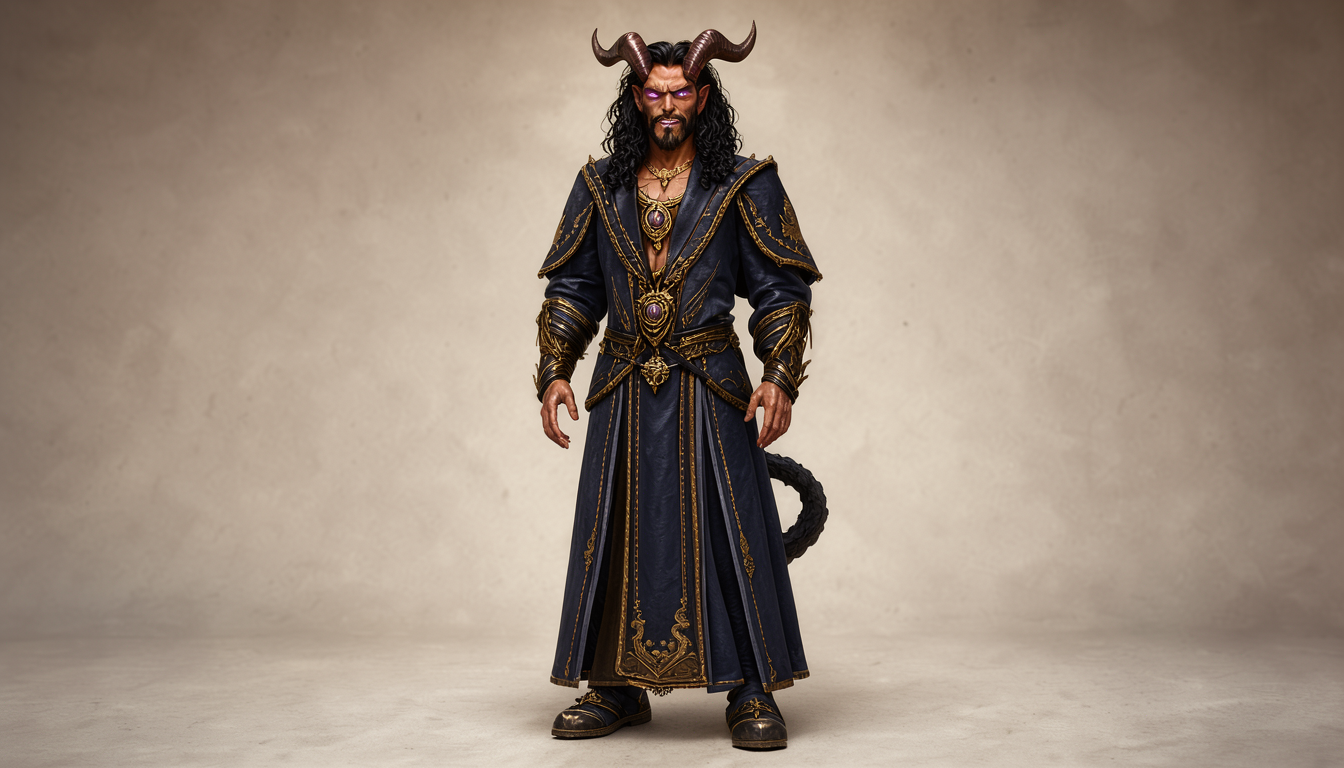
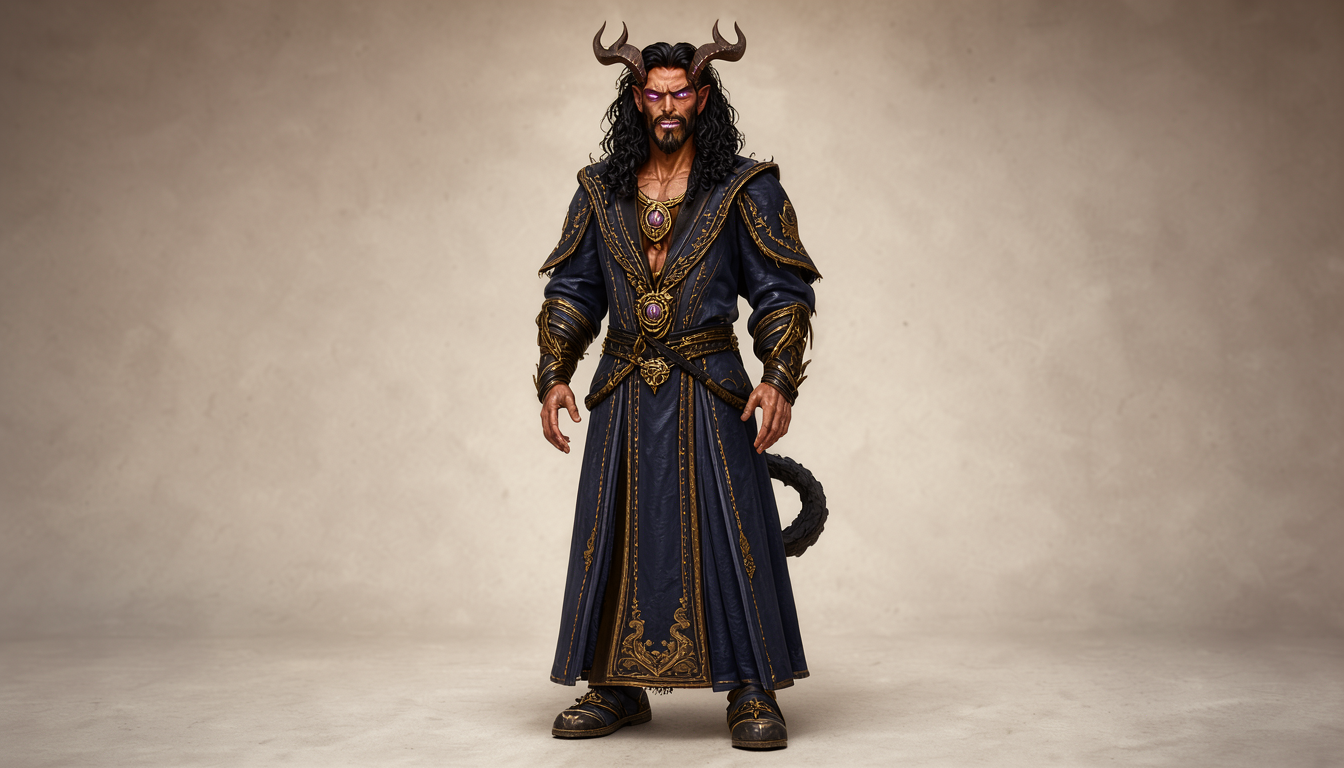
sheet-test: Keechwah lab batch 5 — grown horns, versioned snapshot

Changed region(s): [[0.4062, 0.0312, 0.625, 0.9062], [0.5938, 0.375, 0.625, 0.4062]]

diff --git a/tests/test_keechwahlab.py b/tests/test_keechwahlab.py
@@ -25,9 +25,14 @@ ARM_B_BLOCK = (
     "gold jewelry, NO wings, sharply pointed canines, a thick tiefling tail behind him, "
     "exactly two arms"
 )
-# Batch 4: one step lighter still (batch 2 held, batch 3 says go lighter)
-BATCH4_BLOCK = ARM_B_BLOCK.replace(
-    "deep red skin", "warm bronze-tan skin with a faint red cast", 1
+# Batch 5: horns grown, not stuck on — batch 4 skin holds everywhere but
+# k03's leftover red, which reads seed-specific rather than wording
+BATCH5_BLOCK = (
+    "adult male tiefling warlock, warm bronze-tan skin with a faint red cast, "
+    "long curly black hair, goatee, large curved horns growing naturally from his "
+    "temples and emerging through his hair, glowing purple eyes, male facial features, "
+    "dark blue/gold robes, gold jewelry, NO wings, sharply pointed canines, "
+    "a thick tiefling tail behind him, exactly two arms"
 )
 
 
@@ -40,9 +45,7 @@ class TestKeechwahLabDescriptions(unittest.TestCase):
 
     def test_baseline_block_is_arm_b_verbatim(self):
         text, sources = self.load_block()
-        self.assertEqual(text, BATCH4_BLOCK, "batch-4 block must be Arm B with the lighter skin swap")
-        self.assertNotIn("deep red skin", text, "full-demon red must be gone")
-        self.assertNotIn("deep red undertone", text, "batch-2 undertone superseded by the lighter cast")
+        self.assertEqual(text, BATCH5_BLOCK, "batch-5 block must be batch-4 skin plus grown-horn wording")
         self.assertIn("character-bible/Sheets/Keechwah.pdf", sources)
         self.assertIn(KEECHWAH_URL, sources)
         self.assertTrue(any("bible.md locked chunks" in s for s in sources))

diff --git a/character-bible/sheet-test/keechwah-lab/batches/batch5/descriptions.md b/character-bible/sheet-test/keechwah-lab/batches/batch5/descriptions.md
@@ -1,0 +1,16 @@
+# Keechwah Lab — baseline block for seed-robustness testing
+
+Single block source for `keechwah-lab`. Batch 1 is the Arm B Keechwah
+block verbatim (the starting point, as the Shade lab began from its
+Arm B block). Known failure modes from the bible NEVER list to watch
+for: female render, wings (Verruth confusion — Keechwah has NONE),
+hooves, duplicate Keechwahs.
+
+## Keechwah (keechwah)
+
+adult male tiefling warlock, warm bronze-tan skin with a faint red cast, long curly black hair, goatee, large curved horns growing naturally from his temples and emerging through his hair, glowing purple eyes, male facial features, dark blue/gold robes, gold jewelry, NO wings, sharply pointed canines, a thick tiefling tail behind him, exactly two arms
+
+Sources:
+- character-bible/Sheets/Keechwah.pdf
+- https://www.dndbeyond.com/species/7-tiefling
+- bible.md locked chunks (main checkout)

diff --git a/character-bible/sheet-test/keechwah-lab/README.md b/character-bible/sheet-test/keechwah-lab/README.md
@@ -16,6 +16,7 @@ overwrite — every generation snapshots to `batches/batch<N>/` with its
 | batch2 | Human-first skin per DDB's own ordering: `deep red skin` → `dark bronze skin with a deep red undertone` (batch 1 read full-demon) | same k01–k04 |
 | batch3 | 20-seed survey on the batch-2 block (master list seed 20261104, disjoint from all prior) — keeper/feature read | keechwah_r01–r20 |
 | batch4 | One step lighter still: `warm bronze-tan skin with a faint red cast` (batch 3 verdict: all tiefling, none great; horns tacked-on, red still heavy) | same k01–k04 |
+| batch5 | Horns grown, not stuck on: `large curved horns growing naturally from his temples and emerging through his hair` (batch-4 skin held, k03's leftover red reads seed-specific) | same k01–k04 |
 
 ## Verdicts
 

diff --git a/character-bible/sheet-test/keechwah-lab/descriptions.md b/character-bible/sheet-test/keechwah-lab/descriptions.md
@@ -8,7 +8,7 @@ hooves, duplicate Keechwahs.
 
 ## Keechwah (keechwah)
 
-adult male tiefling warlock, warm bronze-tan skin with a faint red cast, long curly black hair, goatee, large curved horns, glowing purple eyes, male facial features, dark blue/gold robes, gold jewelry, NO wings, sharply pointed canines, a thick tiefling tail behind him, exactly two arms
+adult male tiefling warlock, warm bronze-tan skin with a faint red cast, long curly black hair, goatee, large curved horns growing naturally from his temples and emerging through his hair, glowing purple eyes, male facial features, dark blue/gold robes, gold jewelry, NO wings, sharply pointed canines, a thick tiefling tail behind him, exactly two arms
 
 Sources:
 - character-bible/Sheets/Keechwah.pdf
